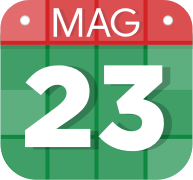
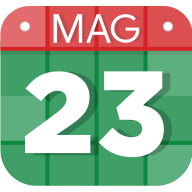
1.0.1
Fixed icon

diff --git a/index.html b/index.html
@@ -14,6 +14,8 @@
     <link rel="apple-touch-icon" href="images/icon.png">
     <meta property="og:title" content="Memory 23 maggio">
     <meta property="og:image" content="https://marco97pa.github.io/memory-23maggio/images/icon.png">
+    <meta property="og:image:width" content="192">
+    <meta property="og:image:height" content="192">
     <meta property="og:description" content="Un gioco per tutti in memoria delle vittime della mafia">
     <meta property="og:type" content="website" />
     <meta property="og:url" content="https://marco97pa.github.io/memory-23maggio" />
